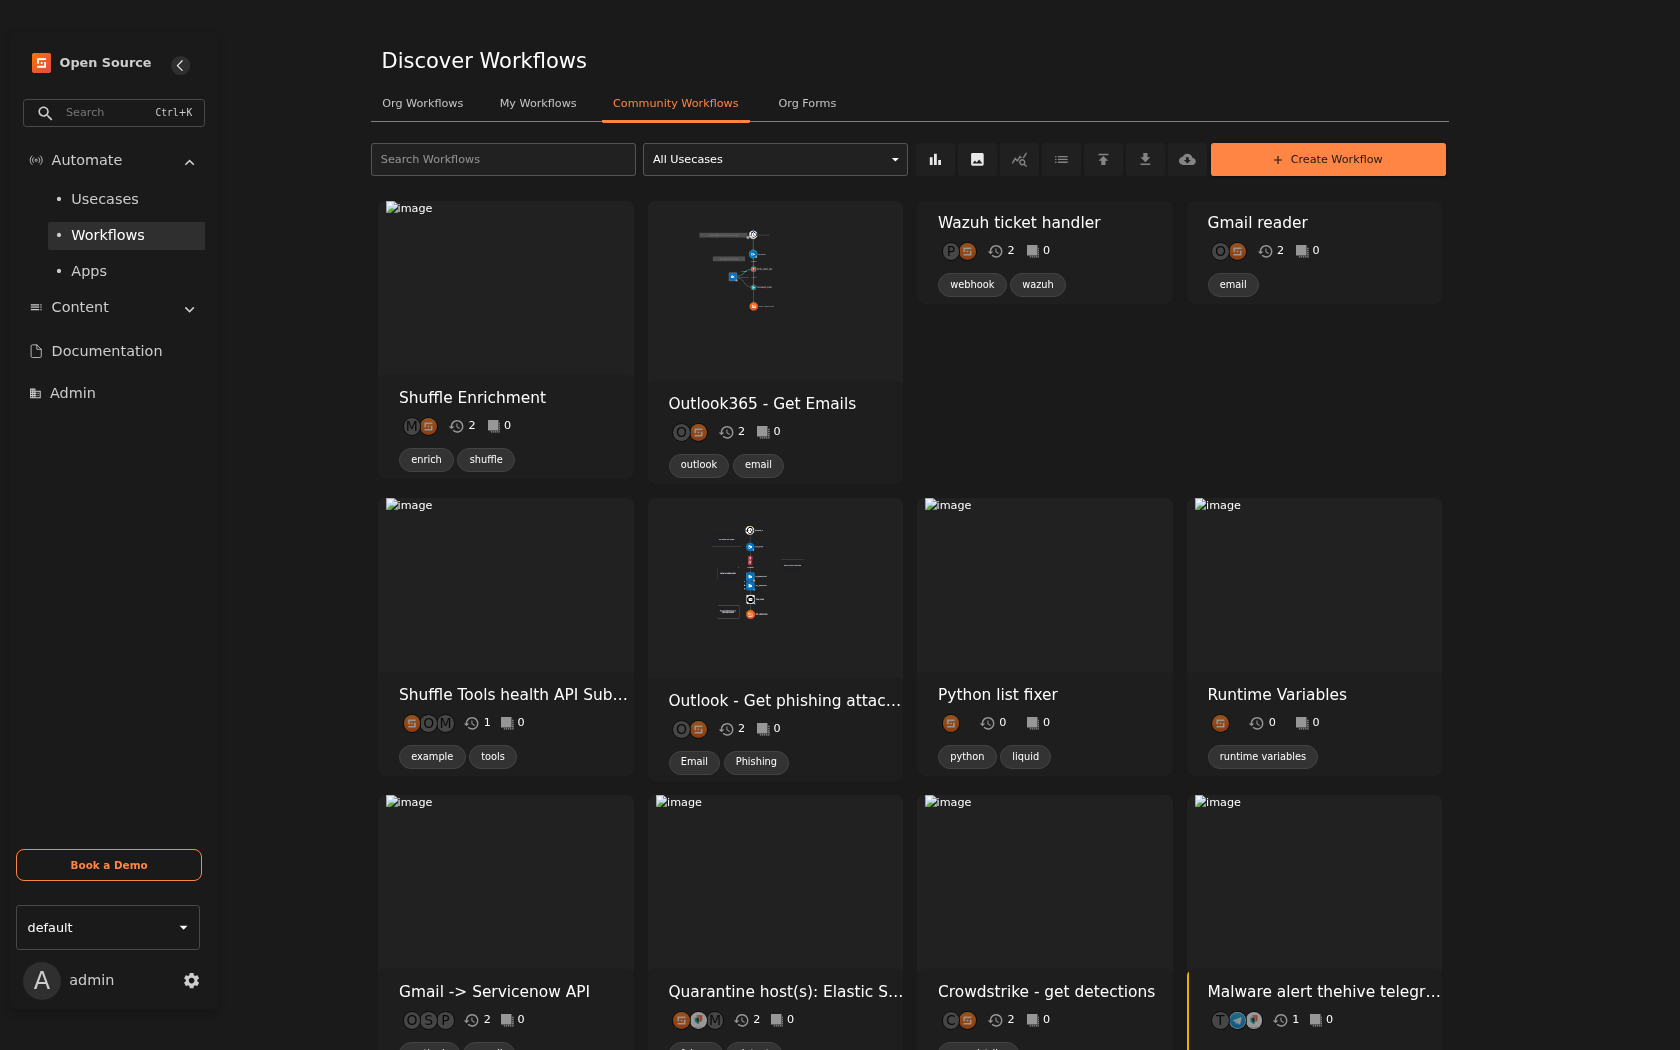
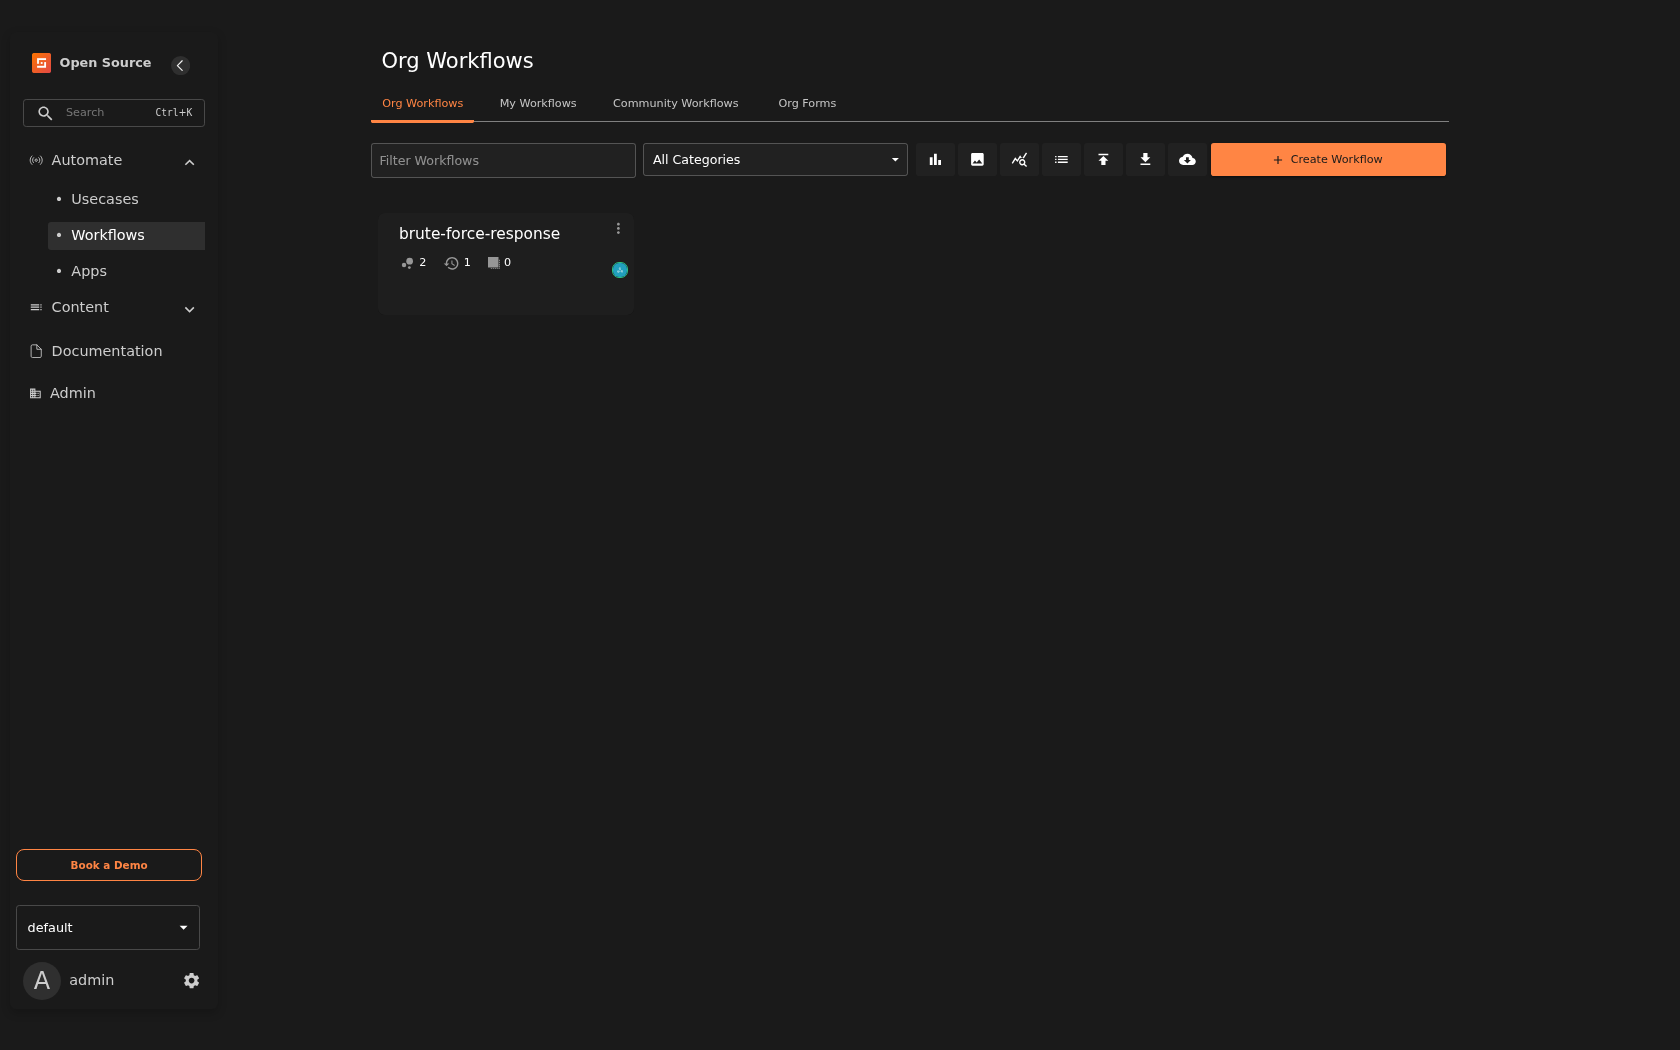
fix: parse the whole alert payload in the shuffle workflow

diff --git a/scripts/media/capture-shuffle.js b/scripts/media/capture-shuffle.js
@@ -1,0 +1,56 @@
+// Prints do Shuffle usados na documentacao (semana 3).
+//
+// Requer Node, playwright-core e um Chromium do Playwright:
+//   npm i playwright-core && npx playwright install chromium
+// Variaveis: PW_CORE (modulo), CHROMIUM (executavel), OUT (diretorio de saida),
+// SHUFFLE_URL, SHUFFLE_USER, SHUFFLE_PASSWORD, WORKFLOW_ID, EXECUTION_ID.
+'use strict';
+const { chromium } = require(process.env.PW_CORE || 'playwright-core');
+const OUT = process.env.OUT || 'assets/prints/week-03';
+const BASE = process.env.SHUFFLE_URL || 'http://localhost:3001';
+const USER = process.env.SHUFFLE_USER || 'admin';
+const PASS = process.env.SHUFFLE_PASSWORD;
+const WORKFLOW = process.env.WORKFLOW_ID;
+const EXECUTION = process.env.EXECUTION_ID;
+const EXEC = process.env.CHROMIUM || undefined;
+
+const check = async (page, words) => {
+  const text = (await page.evaluate(() => document.body.innerText)).replace(/\s+/g, ' ');
+  const missing = words.filter((w) => !text.includes(w));
+  console.log(`${missing.length ? 'FALTOU: ' + missing.join(',') : 'ok'} | ${text.slice(0, 80)}`);
+};
+
+(async () => {
+  const browser = await chromium.launch({ executablePath: EXEC, args: ['--no-sandbox', '--disable-dev-shm-usage'] });
+  const ctx = await browser.newContext({ viewport: { width: 1680, height: 1050 } });
+  const page = await ctx.newPage();
+  page.setDefaultTimeout(120000);
+
+  await page.goto(`${BASE}/login`, { waitUntil: 'domcontentloaded' });
+  await page.waitForTimeout(5000);
+  await page.screenshot({ path: `${OUT}/02-shuffle-login.png` });
+  await page.fill('#emailfield', USER);
+  await page.fill('#outlined-password-input', PASS);
+  await page.click('button[type="submit"]');
+  await page.waitForTimeout(18000);
+
+  await page.goto(`${BASE}/workflows`, { waitUntil: 'domcontentloaded' });
+  await page.waitForTimeout(15000);
+  await page.screenshot({ path: `${OUT}/01-shuffle-workflows.png` });
+  await check(page, ['Workflows']);
+
+  if (WORKFLOW) {
+    await page.goto(`${BASE}/workflows/${WORKFLOW}`, { waitUntil: 'domcontentloaded' });
+    await page.waitForTimeout(20000);
+    await page.screenshot({ path: `${OUT}/04-shuffle-workflow.png` });
+    await check(page, ['brute-force-response']);
+
+    if (EXECUTION) {
+      await page.goto(`${BASE}/workflows/${WORKFLOW}?execution_id=${EXECUTION}`, { waitUntil: 'domcontentloaded' });
+      await page.waitForTimeout(30000);
+      await page.screenshot({ path: `${OUT}/03-shuffle-execucao.png` });
+      await check(page, ['FINISHED', 'webhook']);
+    }
+  }
+  await browser.close();
+})();

diff --git a/docs/demo-guide.md b/docs/demo-guide.md
@@ -4,7 +4,7 @@
 
 Reunir o que o ambiente já faz e as evidências visuais geradas, para o acompanhamento semanal e para o vídeo de 3 a 5 minutos (T51). O roteiro final da apresentação é a T42.
 
-## O que mostrar hoje (fim da semana 2)
+## O que mostrar hoje (fim da semana 3)
 
 | Camada | O que já funciona | Como mostrar |
 |---|---|---|
@@ -12,19 +12,23 @@ Reunir o que o ambiente já faz e as evidências visuais geradas, para o acompan
 | NIDS | Suricata em container host-network com 52.769 assinaturas ET Open, captura live na ponte e replay de pcaps | prints 04, 05 e 06, vídeos `live-alert.mp4` e `replay-pcap.mp4` |
 | SIEM | Alertas de host e de rede no mesmo painel, com nível por tipo: 12 para malware, 6 para varredura e 3 para o restante | prints 04 e 05 |
 | Dashboards | Painel nativo do Wazuh com os eventos, o FIM e o resumo por severidade | prints 01, 02 e 03 |
-| SOAR | Ainda não, entra na semana 3 (T18 a T23) | - |
+| SOAR | Shuffle em container com o workflow `brute-force-response`: alerta de nível 12 do Wazuh vira execução, com parse dos campos e registro da resposta (o bloqueio real do IP entra na semana 6) | prints 08, 09 e 10 |
 
 ## Prints (versionados)
 
 | Arquivo | O que mostra |
 |---|---|
-| `01-painel-visao-geral.png` | Resumo do painel: agentes conectados e contagem por severidade |
-| `02-fim-eventos.png` | Integridade de arquivos: o arquivo de teste em `/etc` apareceu como `added` e `deleted` |
-| `03-hids-agente.png` | Eventos do agente da vítima: falhas de autenticação SSH e sessões PAM |
-| `04-nids-alertas.png` | Alertas do Suricata no índice, com nível, descrição, IPs de origem e destino e porta |
-| `05-nids-malware.png` | Só os alertas de malware (regra 100200, nível 12), com assinatura ET e categoria |
-| `06-nids-live.png` | Alertas vindos da captura live, gerados por ataque na ponte |
-| `07-arquitetura.png` | Diagrama das camadas, das duas máquinas, das portas e do fluxo de dados |
+| `week-02/01-painel-visao-geral.png` | Resumo do painel: agentes conectados e contagem por severidade |
+| `week-02/02-fim-eventos.png` | Integridade de arquivos: o arquivo de teste em `/etc` apareceu como `added` e `deleted` |
+| `week-02/03-hids-agente.png` | Eventos do agente da vítima: falhas de autenticação SSH e sessões PAM |
+| `week-02/04-nids-alertas.png` | Alertas do Suricata no índice, com nível, descrição, IPs de origem e destino e porta |
+| `week-02/05-nids-malware.png` | Só os alertas de malware (regra 100200, nível 12), com assinatura ET e categoria |
+| `week-02/06-nids-live.png` | Alertas vindos da captura live, gerados por ataque na ponte |
+| `week-02/07-arquitetura.png` | Diagrama das camadas, das duas máquinas, das portas e do fluxo de dados |
+| `week-03/01-shuffle-workflows.png` | Lista de workflows do Shuffle com o `brute-force-response` registrado |
+| `week-03/02-shuffle-login.png` | Tela de login local do Shuffle |
+| `week-03/03-shuffle-execucao.png` | Execução disparada por alerta de malware: payload recebido e os dois nós em `SUCCESS` |
+| `week-03/04-shuffle-workflow.png` | Editor do workflow, com o trigger de webhook, o parse e o nó de registro |
 
 ## Vídeos (fora do git, por tamanho)
 
@@ -42,13 +46,17 @@ Os vídeos ficam em `assets/media/`, que não é versionado. Os cortes começam 
 2. **HIDS** (print 01 e vídeo `hids-auth`): agente `Active`, falha de autenticação e brute force detectados na vítima.
 3. **NIDS e SIEM** (vídeo `live-alert` e print 05): ataque na ponte, detecção por assinatura e alerta de malware no nível 12 no mesmo painel dos eventos de host.
 4. **Volume e reprodutibilidade** (vídeo `replay-pcap` e print 04): o replay de um pcap público alimentando o painel com milhares de alertas.
-5. **Fechamento**: o que falta é o SOAR, que entra na semana 3 (T18 a T23).
+5. **Fechamento**: o SOAR está no ar, com webhook, ramo por severidade e registro da resposta; o bloqueio automático do IP atinge a T33 a T38, na semana 6.
 
 ## Como regerar as evidências
 
 ```bash
 # prints do painel (assets/prints/week-02)
 node scripts/media/capture-stills.js
+
+# prints do Shuffle (assets/prints/week-03)
+PW_CORE=<modulo playwright-core> CHROMIUM=<chromium do playwright> \
+  WORKFLOW_ID=<id> EXECUTION_ID=<id> node scripts/media/capture-shuffle.js
 
 # vídeos (assets/media), um por cenário
 node scripts/media/capture-video.js live /tmp/videos/live-alert.webm
@@ -57,7 +65,7 @@ node scripts/media/capture-video.js hids /tmp/videos/hids-auth.webm
 scripts/media/render.sh /tmp/videos assets/media
 ```
 
-Dependências: Node com `playwright-core` e o Chromium do Playwright, e um ffmpeg com libx264 e libass (o build estático de `johnvansickle.com/ffmpeg` serve). Os scripts leem `PW_CORE`, `CHROMIUM`, `DASHBOARD_URL`, `DASHBOARD_USER`, `DASHBOARD_PASSWORD` e `VICTIM_ADDRESS` do ambiente. Os cortes de tempo em `render.sh` são os da gravação usada aqui; uma gravação nova pode precisar de ajuste, porque o tempo de carga do painel varia.
+Dependências: Node com `playwright-core` e o Chromium do Playwright, e um ffmpeg com libx264 e libass (o build estático de `johnvansickle.com/ffmpeg` serve). Os scripts leem `PW_CORE`, `CHROMIUM`, `DASHBOARD_URL`, `DASHBOARD_USER`, `DASHBOARD_PASSWORD` e `VICTIM_ADDRESS` do ambiente; o do Shuffle lê ainda `SHUFFLE_URL`, `SHUFFLE_USER`, `SHUFFLE_PASSWORD`, `WORKFLOW_ID` e `EXECUTION_ID`, e o login usa os campos `#emailfield` e `#outlined-password-input`. Os cortes de tempo em `render.sh` são os da gravação usada aqui; uma gravação nova pode precisar de ajuste, porque o tempo de carga do painel varia.
 
 ## Notas
 

diff --git a/docs/reports/T23-workflow-tests.md b/docs/reports/T23-workflow-tests.md
@@ -1,0 +1,50 @@
+# T23: Testar o workflow com alertas de teste
+
+## Metadados
+
+- Semana: 3
+- Atividade: T23
+- Prioridade: P0
+- Pré-requisitos: T20, T22
+- Status: done
+- Data de conclusão: 26/09/2026
+
+## Resumo do que foi feito
+
+### T23: Testar o workflow com alertas de teste
+
+- Parse corrigido no nó `parse_alert`: o código passou a ler o objeto inteiro do alerta (`$exec.all_fields`) e montar os campos em Python, em vez de referenciar cada campo por substituição direta. Com isso o IP de origem sai de `data.srcip` (alerta de agente) ou de `data.src_ip` (alerta do Suricata) e o nível é convertido em inteiro com valor padrão zero.
+- Mensagem do nó `log_response` generalizada: "Resposta acionada: regra <id> nivel <level> - <descrição> - origem <ip> agente <agente>", que serve tanto para alerta de malware quanto para brute force.
+- Descoberto que `POST /api/v1/workflows` sempre cria um workflow novo, com id novo: as três gravações anteriores geraram cópias do `brute-force-response`. A atualização passou a usar `PUT /api/v1/workflows/<id>`, as cópias foram removidas (`DELETE`) e o `scripts/shuffle/import-workflow.sh` passou a escolher o verbo conforme o workflow já existir ou não.
+- Testes com o payload que a integração do Wazuh monta:
+  - nível 12 com `data.srcip` (regra 5763): `parse_alert` `SUCCESS` com `srcip` `192.168.122.1` e `log_response` `SUCCESS` com a mensagem completa.
+  - nível 5 (regra 5710): `parse_alert` `SUCCESS` e `log_response` `SKIPPED` com a razão `Minimum of one branch's conditions must be correct to continue. Total: 0 of 1`.
+- Teste do filtro da integração com alerta real: três falhas de autenticação SSH na VM (regra 5760, nível 5) e nenhuma execução nova no Shuffle. A última execução antes do teste é a de 22:20:44 e os alertas são de 22:22:41 a 22:22:45; a contagem ficou em 100 antes e depois.
+- Revalidado o caminho de ponta a ponta com o alerta de nível 12 do Suricata: 16 execuções recentes, todas com `parse_alert` e `log_response` em `SUCCESS` e com o IP `147.32.84.165` preenchido.
+
+## Dificuldades
+
+- O parse antigo não dava erro quando o campo não existia: o valor saía vazio e o nó seguia em `SUCCESS`, o que só apareceu porque o alerta real do Suricata tinha outro nome de campo. Ler o objeto inteiro no Python tornou o erro impossível de passar em silêncio.
+- As notificações `shuffle_variable_error` no backend vinham das execuções que rodaram com o texto anterior do `log_response`; depois do `PUT` e do processamento da fila, as execuções com resultado ficaram todas em `SUCCESS`. A notificação é reaproveitada pelo backend, então a conferência foi feita pela distribuição de status das execuções, não pela contagem de notificações.
+- O `DELETE` de workflow responde `{"success": false}` quando o documento não está no índice que o handler lê, mesmo com o workflow visível na listagem; as cópias desapareceram sozinhas depois de alguns minutos.
+
+## Aprendizados e avisos (handoff)
+
+- Para alterar o workflow: `PUT /api/v1/workflows/<id>` com o objeto inteiro. `POST` cria outro workflow e deixa duas definições vivas, com risco de o hook apontar para a definição antiga.
+- O nó `parse_alert` entrega os campos dentro de `message` (o `execute_python` embrulha o JSON do `print`), então as referências são `$parse_alert.message.<campo>` e a condição do ramo é `$parse_alert.message.level maior que 11`.
+- Duas camadas filtram a severidade: a integração do Wazuh não envia nada abaixo de nível 12 (não existe execução) e a condição do ramo evita o nó de registro se um alerta de nível baixo chegar por outro caminho (por exemplo, teste direto no webhook).
+- A ordem dos testes nas próximas semanas importa: o replay do pcap gera cerca de 100 execuções por rodada. Para testar o workflow sem poluir o histórico, disparar direto no webhook.
+
+## Entregáveis
+
+- `configs/shuffle/workflows/brute-force-response.json`: exportação atualizada com o parse novo e a mensagem generalizada.
+- `scripts/shuffle/import-workflow.sh`: registro do workflow com `PUT` ou `POST` conforme o caso.
+- `docs/guides/start-shuffle.md`: tabela dos nós atualizada, explicação do parse e a diferença entre `POST` e `PUT`.
+- `scripts/media/capture-shuffle.js`: captura dos prints do Shuffle (login, lista de workflows, editor e detalhe da execução).
+- `assets/prints/week-03/`: prints do Shuffle regenerados pelo script novo.
+
+## Acompanhamento
+
+- O workflow responde certo nos dois níveis: alerta crítico segue até o registro, alerta abaixo do limiar para no ramo, e o filtro da integração evita a execução inteira.
+- A dificuldade mais interessante foi o teste que passou sem provar nada: o parse antigo devolvia `SUCCESS` com o campo vazio, e o erro só apareceu com um alerta real do Suricata na cadeia.
+- Próximo passo, agora na semana 4: T24, gerar ataques reais com nmap e hydra contra a VM.

diff --git a/docs/status.md b/docs/status.md
@@ -9,10 +9,10 @@ Status: `done` (concluída e aceita), `partial` (em andamento), `pendente` (não
 ## Resumo
 
 - Última atualização: 26/09/2026
-- Concluídas: 22 de 56
+- Concluídas: 23 de 56
 - Semana atual: 3 (28/09/2026), SOAR conectado
-- Pendente da semana: T23
-- Próxima atividade: T23, testar o workflow com alertas de teste
+- Pendente da semana: nenhuma
+- Próxima atividade: T24, gerar ataques reais (nmap, hydra)
 
 ## Semana 0 (28/08/2026): Definições iniciais (2/2)
 
@@ -46,7 +46,7 @@ Status: `done` (concluída e aceita), `partial` (em andamento), `pendente` (não
 | T16 | Criar as regras de correspondência para os alertas do Suricata | P0 | done | [T16](reports/T16-suricata-rules.md) |
 | T17 | Validar alertas do Suricata no dashboard | P0 | done | [T17](reports/T17-suricata-dashboard.md) |
 
-## Semana 3 (28/09/2026): SOAR conectado (5/6)
+## Semana 3 (28/09/2026): SOAR conectado (6/6)
 
 | ID | Atividade | Prioridade | Status | Relatório |
 |---|---|---|---|---|
@@ -55,7 +55,7 @@ Status: `done` (concluída e aceita), `partial` (em andamento), `pendente` (não
 | T20 | Criar o workflow 1 no Shuffle | P0 | done | [T20](reports/T20-workflow.md) |
 | T21 | Configurar a integração do Wazuh com o Shuffle | P0 | done | [T21](reports/T21-wazuh-shuffle.md) |
 | T22 | Confirmar a chegada de alerta de teste no Shuffle | P0 | done | [T22](reports/T22-shuffle-alert.md) |
-| T23 | Testar o workflow com alertas de teste | P0 | pendente | |
+| T23 | Testar o workflow com alertas de teste | P0 | done | [T23](reports/T23-workflow-tests.md) |
 
 ## Semana 4 (05/10/2026): Ataques reais e regras custom (0/6)
 

diff --git a/docs/guides/start-shuffle.md b/docs/guides/start-shuffle.md
@@ -91,11 +91,15 @@ bash scripts/shuffle/import-workflow.sh
 
 O script envia o JSON e registra o webhook. O id do hook é o id do trigger que está dentro do workflow, porque a URL é `POST /api/v1/hooks/webhook_<id>` (44 caracteres, com o prefixo).
 
+Na API, `POST /api/v1/workflows` sempre cria um workflow novo, com id novo; atualizar um existente é `PUT /api/v1/workflows/<id>`. O script confere se o id do arquivo já existe e escolhe o verbo.
+
 | Nó | App e ação | Papel |
 |---|---|---|
 | `Webhook` | trigger do tipo WEBHOOK | recebe o alerta do Wazuh |
-| `parse_alert` | Shuffle Tools, `execute_python` | extrai `rule_id`, `level`, `description`, `srcip` e `agent` do payload |
+| `parse_alert` | Shuffle Tools, `execute_python` | lê o alerta de `$exec.all_fields` e extrai `rule_id`, `level`, `description`, `srcip` e `agent` |
 | `log_response` | Shuffle Tools, `repeat_back_to_me` | registra a resposta no histórico da execução |
+
+O `parse_alert` recebe o objeto de alerta inteiro em `all_fields` e monta os campos em JSON no `print`; o `execute_python` devolve esse JSON dentro de `message`, e é por isso que as referências seguintes são `$parse_alert.message.<campo>`. O IP de origem sai de `data.srcip` (alertas de agente) ou de `data.src_ip` (alertas do Suricata), o que cobre as duas origens sem mudar o workflow.
 
 O ramo entre `parse_alert` e `log_response` tem uma condição: `$parse_alert.message.level` maior que `11`, ou seja, só segue com severidade de nível 12 ou mais. Abaixo disso o nó é marcado como `SKIPPED`, com a razão `Minimum of one branch's conditions must be correct to continue`.
 
